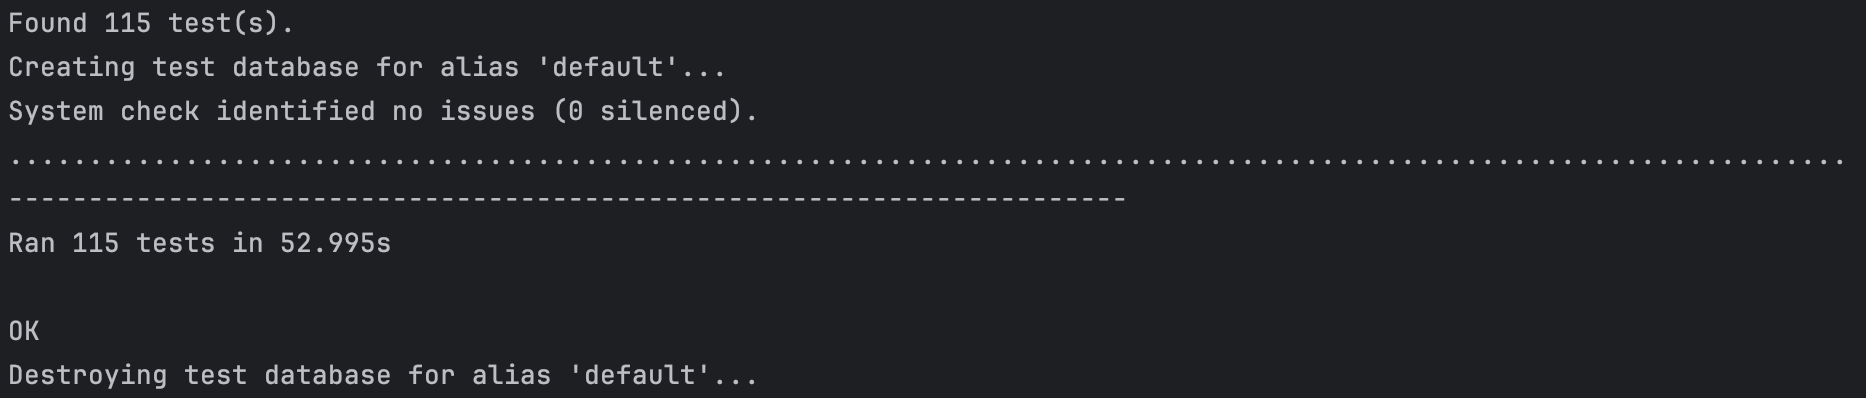
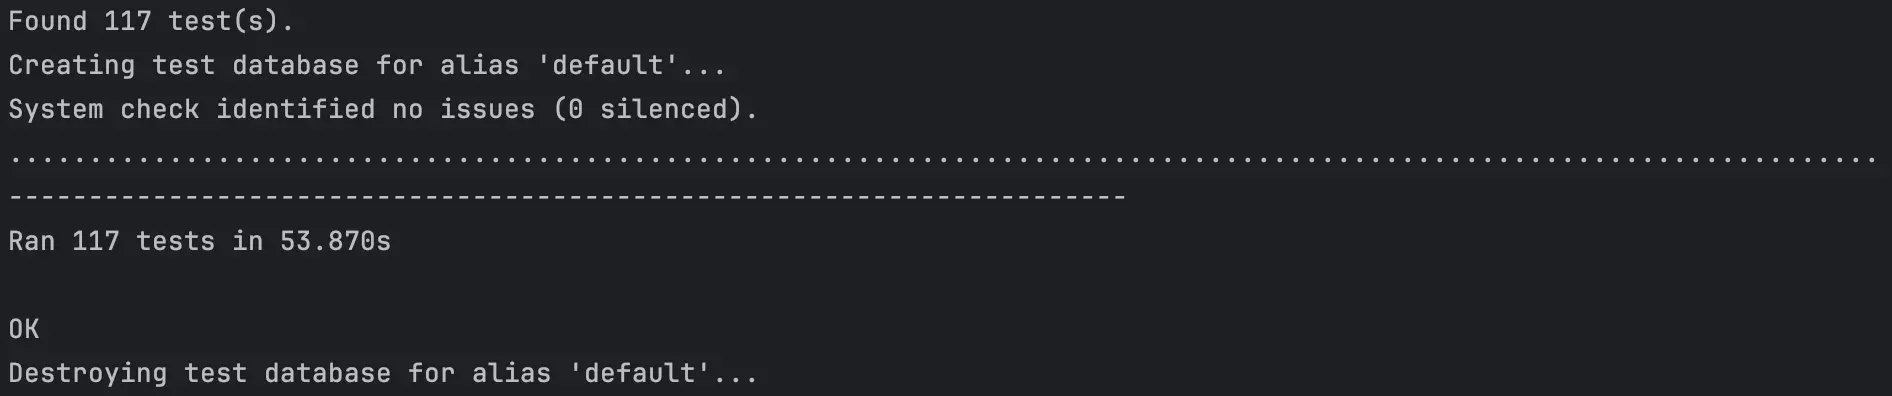
FEAT(test): adding tests for custom email change form

diff --git a/lego_collection/test_views.py b/lego_collection/test_views.py
@@ -78,7 +78,7 @@ class TestHomepage(TestCase):
         self.client.logout()
         response = self.client.get(reverse('home'))
         self.assertEqual(response.status_code, 200)
-        self.assertIn(b'<button>Forgot Login/Password</button>',
+        self.assertIn(b'Forgot Login/Password',
                       response.content,
                       msg='Failed: Valid homepage widget logged out view')
 
@@ -1279,7 +1279,7 @@ class TestProfile(TestCase):
         self.client.logout()
         response = self.client.get(reverse('profile'))
         self.assertEqual(response.status_code, 200)
-        self.assertIn(b'<button>Forgot Login/Password</button>',
+        self.assertIn(b'Forgot Login/Password',
                       response.content,
                       msg='Failed: Valid profile logged out view')
 
@@ -1319,6 +1319,32 @@ class TestProfile(TestCase):
         self.assertIn(b'An account with that username already exists.',
                       response.content,
                       msg='Failed: Invalid username change')
+
+    def test_email_change_valid(self):
+        """
+        Test email update
+        """
+        self.client.login(username='test_user', password='t€$T951')
+        response = self.client.post(reverse('profile'),
+                                    {'email': 'test_change@test.com',
+                                     'profile-email-button': True},
+                                    follow=True)
+        self.assertIn(b'Your email address has been successfully updated',
+                      response.content,
+                      msg='Failed: Valid email change')
+
+    def test_email_change_invalid(self):
+        """
+        Test email update
+        """
+        self.client.login(username='test_user', password='t€$T951')
+        response = self.client.post(reverse('profile'),
+                                    {'email': 'test_user@test.com',
+                                     'profile-email-button': True},
+                                    follow=True)
+        self.assertIn(b'An account with that email address already exists.',
+                      response.content,
+                      msg='Failed: Invalid email change')
 
     def test_privacy_change(self):
         """
@@ -1369,7 +1395,7 @@ class TestShared(TestCase):
         self.client.logout()
         response = self.client.get(reverse('shared'))
         self.assertEqual(response.status_code, 200)
-        self.assertIn(b'<button>Forgot Login/Password</button>',
+        self.assertIn(b'Forgot Login/Password',
                       response.content,
                       msg='Failed: Valid Shared logged out view')
 
